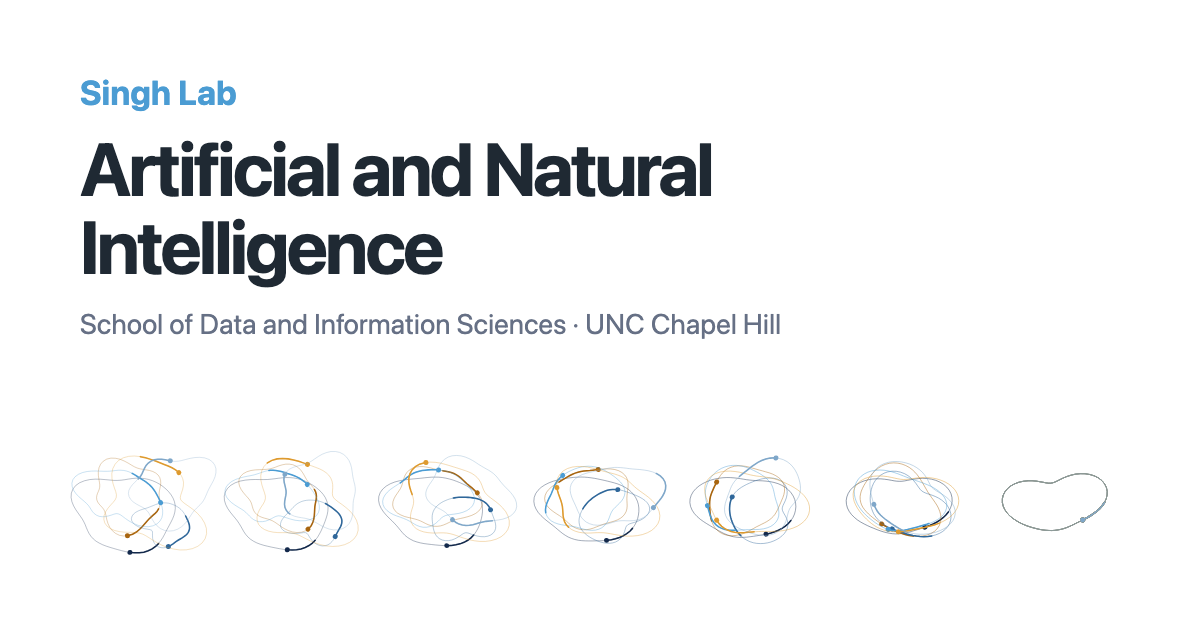
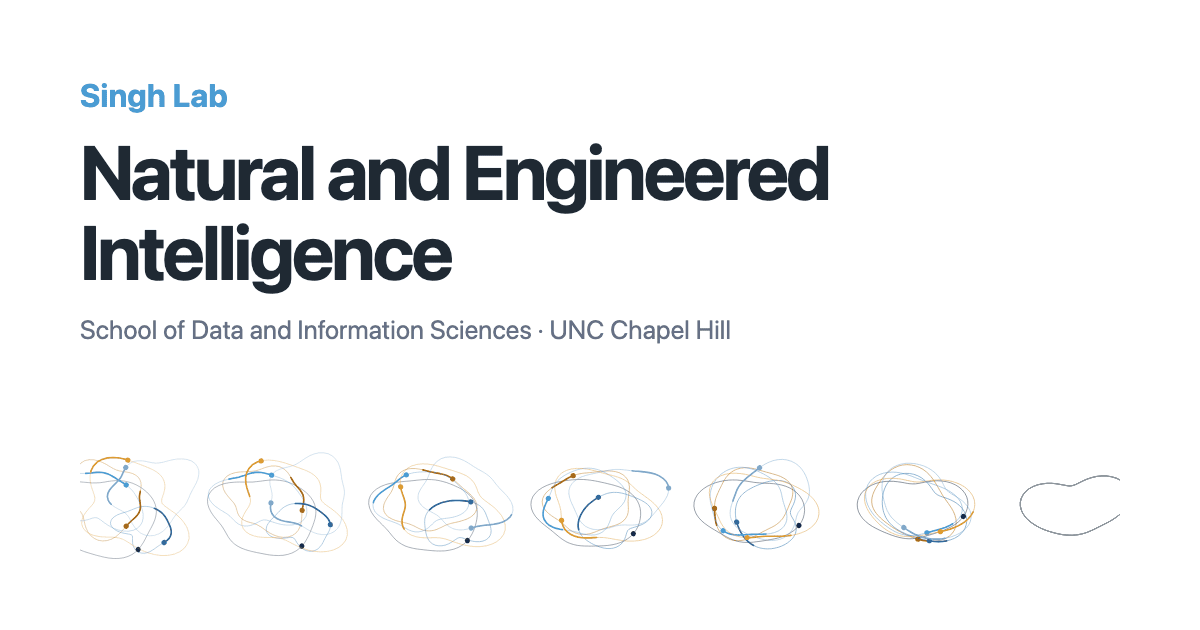
Self-host all Research media; add social previews, sitemap, structured data, 404
- Zebrafish collective GIF trimmed to its most active 8 s (5.7 MB -> 0.9 MB)
- Remaining images copied from the personal site into assets/research
- Research links to Google Scholar for the latest publications, plus
  back-to-top links after each theme
- Per-page Open Graph images; the About one now matches the site title
- sitemap.xml, robots.txt, and schema.org data for the lab and PI
- Styled 404 page

diff --git a/research.html b/research.html
@@ -20,13 +20,13 @@
   <meta property="og:title" content="Research · Singh Lab · UNC Chapel Hill">
   <meta property="og:description" content="Research in the Singh Lab: agent-based models and simulation, AI for science and medicine, and the dynamics of neural computation.">
   <meta property="og:url" content="https://satsinghlab.com/research.html">
-  <meta property="og:image" content="https://satsinghlab.com/assets/og-image.png">
+  <meta property="og:image" content="https://satsinghlab.com/assets/og-research.png">
   <meta property="og:image:width" content="1200">
   <meta property="og:image:height" content="630">
   <meta property="og:image:alt" content="Singh Lab: Natural and Engineered Intelligence, UNC Chapel Hill">
   <meta name="twitter:card" content="summary_large_image">
 
-  <link rel="stylesheet" href="style.css?v=3">
+  <link rel="stylesheet" href="style.css?v=4">
   <link rel="stylesheet" href="assets/banners.css?v=2">
 </head>
 
@@ -65,6 +65,12 @@
           </p>
         </div>
 
+        <p class="scholar-note">
+          The most up-to-date list of our publications is on
+          <a href="https://scholar.google.com/citations?user=S6wyhngAAAAJ&amp;hl=en&amp;view_op=list_works&amp;sortby=pubdate">Google Scholar</a>,
+          sorted newest first.
+        </p>
+
         <ul class="theme-nav">
           <li><a href="#agents">Agents and simulation</a></li>
           <li><a href="#computation">Neural computation</a></li>
@@ -95,9 +101,9 @@
                 electric fish. A 3D biomechanical body model is in progress.
               </p>
               <div class="media-strip">
-                <img src="https://satpreetsingh.github.io/files/wef3d_swim_forward_side_cropped.gif" alt="3D fish model swimming forward" loading="lazy">
-                <img src="https://satpreetsingh.github.io/files/wef3d_turns_learned_cropped.gif" alt="3D fish model performing learned turns" loading="lazy">
-                <img src="https://satpreetsingh.github.io/files/wef3d_nose_yaw_demo_sensors_cropped.gif" alt="3D fish model with electrosensors on its body" loading="lazy">
+                <img src="assets/research/efish-3d-swim.gif" alt="3D fish model swimming forward" loading="lazy">
+                <img src="assets/research/efish-3d-turns.gif" alt="3D fish model performing learned turns" loading="lazy">
+                <img src="assets/research/efish-3d-sensors.gif" alt="3D fish model with electrosensors on its body" loading="lazy">
               </div>
               <p class="project-venue">RLDM 2025, spotlight talk · NeurIPS 2025 workshop</p>
               <p class="project-links">
@@ -109,7 +115,7 @@
 
           <article class="project">
             <div class="project-media">
-              <img src="https://satpreetsingh.github.io/files/zf1_cropped.gif" alt="Simulated larval zebrafish agent hunting prey" loading="lazy">
+              <img src="assets/research/zebrafish-hunting.gif" alt="Simulated larval zebrafish agent hunting prey" loading="lazy">
             </div>
             <div class="project-body">
               <h3>Larval zebrafish hunting</h3>
@@ -127,7 +133,7 @@
 
           <article class="project">
             <div class="project-media">
-              <img src="https://satpreetsingh.github.io/files/zf4_cropped.gif" alt="Group of simulated zebrafish agents foraging, with their visual fields drawn" loading="lazy">
+              <img src="assets/research/zebrafish-collective.gif" alt="Group of simulated zebrafish agents foraging, with their visual fields drawn" loading="lazy">
             </div>
             <div class="project-body">
               <h3>Zebrafish collective behavior</h3>
@@ -178,6 +184,7 @@
           Also: <a href="https://openreview.net/pdf?id=5Q-sYQ9tD5j">Neuroprospecting with deep RL agents</a>,
           an essay on what AI and neuroscience can learn from each other · NeurIPS 2021 workshop
         </p>
+        <p class="to-top"><a href="#research">↑ Back to research themes</a></p>
       </div>
     </section>
 
@@ -264,6 +271,7 @@
           </article>
 
         </div>
+        <p class="to-top"><a href="#research">↑ Back to research themes</a></p>
       </div>
     </section>
 
@@ -357,7 +365,7 @@
 
           <article class="project">
             <div class="project-media">
-              <img src="https://satpreetsingh.github.io/files/umt.png" alt="Translators f and g map between synthetic electric signals from multi-agent RL and real fish recordings, constrained by cycle consistency and priors" loading="lazy">
+              <img src="assets/research/umt.png" alt="Translators f and g map between synthetic electric signals from multi-agent RL and real fish recordings, constrained by cycle consistency and priors" loading="lazy">
             </div>
             <div class="project-body">
               <h3>Translating electric-fish communication</h3>
@@ -375,7 +383,7 @@
 
           <article class="project">
             <div class="project-media">
-              <img src="https://satpreetsingh.github.io/files/pikachu.png" alt="Physics-based source separation: fish positions are optimized so simulated electrode readings match recordings, then signals are assigned to individual fish" loading="lazy">
+              <img src="assets/research/source-separation.png" alt="Physics-based source separation: fish positions are optimized so simulated electrode readings match recordings, then signals are assigned to individual fish" loading="lazy">
             </div>
             <div class="project-body">
               <h3>Who said that? Source separation for electric fish</h3>
@@ -409,6 +417,7 @@
           alt=""
           style="--focus:50%"
         >
+        <p class="to-top"><a href="#research">↑ Back to research themes</a></p>
       </div>
     </section>
 

diff --git a/404.html b/404.html
@@ -1,0 +1,90 @@
+<!DOCTYPE html>
+<html lang="en">
+<head>
+  <meta charset="UTF-8">
+  <meta name="viewport" content="width=device-width, initial-scale=1.0">
+  <meta name="robots" content="noindex">
+
+  <title>Page not found · Singh Lab</title>
+
+
+  <link rel="icon" href="/assets/favicon.svg" type="image/svg+xml">
+  <link rel="apple-touch-icon" href="/assets/apple-touch-icon.png">
+
+
+  <link rel="stylesheet" href="/style.css?v=4">
+  <link rel="stylesheet" href="/assets/banners.css?v=2">
+</head>
+
+<body>
+
+  <header>
+    <div class="container">
+      <nav>
+        <a class="site-name" href="/">Singh Lab</a>
+
+        <ul>
+          <li><a href="/">About</a></li>
+          <li><a href="/people.html">People</a></li>
+          <li><a href="/research.html">Research</a></li>
+          <li><a href="/contact.html">Contact</a></li>
+        </ul>
+      </nav>
+    </div>
+  </header>
+
+  <main>
+
+    <section id="not-found">
+      <div class="container">
+        <h2>Page not found</h2>
+
+        <div class="about-text">
+          <p>
+            The page you were looking for doesn't exist. The site was recently
+            reorganized, so an old link may have moved.
+          </p>
+          <p>
+            Try <a href="/">About</a>, <a href="/people.html">People</a>,
+            <a href="/research.html">Research</a>, or
+            <a href="/contact.html">Contact</a>.
+          </p>
+        </div>
+
+        <img
+          class="lab-divider section-divider"
+          src="/assets/gabor-divider.svg"
+          alt=""
+          style="--focus:50%"
+        >
+      </div>
+    </section>
+
+  </main>
+
+  <footer>
+    <div class="container">
+      © 2026 Singh Lab · University of North Carolina at Chapel Hill
+    </div>
+  </footer>
+
+  <!-- Default Statcounter code for www.satsinghlab.com
+  http://www.satsinghlab.com -->
+  <script type="text/javascript">
+  var sc_project=13357167;
+  var sc_invisible=1;
+  var sc_security="1e96510b";
+  </script>
+  <script type="text/javascript"
+  src="https://www.statcounter.com/counter/counter.js"
+  async></script>
+  <noscript><div class="statcounter"><a title="Web Analytics"
+  href="https://statcounter.com/" target="_blank"><img
+  class="statcounter"
+  src="https://c.statcounter.com/13357167/0/1e96510b/1/"
+  alt="Web Analytics"
+  referrerPolicy="no-referrer-when-downgrade"></a></div></noscript>
+  <!-- End of Statcounter Code -->
+
+</body>
+</html>

diff --git a/people.html b/people.html
@@ -20,13 +20,57 @@
   <meta property="og:title" content="People · Singh Lab · UNC Chapel Hill">
   <meta property="og:description" content="Members of the Singh Lab at UNC Chapel Hill, and how prospective PhD students can join.">
   <meta property="og:url" content="https://satsinghlab.com/people.html">
-  <meta property="og:image" content="https://satsinghlab.com/assets/og-image.png">
+  <meta property="og:image" content="https://satsinghlab.com/assets/og-people.png">
   <meta property="og:image:width" content="1200">
   <meta property="og:image:height" content="630">
   <meta property="og:image:alt" content="Singh Lab: Natural and Engineered Intelligence, UNC Chapel Hill">
   <meta name="twitter:card" content="summary_large_image">
 
-  <link rel="stylesheet" href="style.css?v=3">
+  <script type="application/ld+json">
+  {
+    "@context": "https://schema.org",
+    "@type": "Person",
+    "name": "Satpreet H. Singh",
+    "alternateName": "Sat Singh",
+    "jobTitle": "Assistant Professor",
+    "url": "https://satsinghlab.com/people.html",
+    "image": "https://satsinghlab.com/assets/sat-singh.jpg",
+    "worksFor": {
+      "@type": "CollegeOrUniversity",
+      "name": "University of North Carolina at Chapel Hill"
+    },
+    "affiliation": {
+      "@type": "ResearchOrganization",
+      "name": "Singh Lab",
+      "url": "https://satsinghlab.com/"
+    },
+    "alumniOf": [
+      {
+        "@type": "CollegeOrUniversity",
+        "name": "University of Washington"
+      },
+      {
+        "@type": "CollegeOrUniversity",
+        "name": "Oregon State University"
+      },
+      {
+        "@type": "CollegeOrUniversity",
+        "name": "University of Iowa"
+      }
+    ],
+    "sameAs": [
+      "https://satpreetsingh.github.io",
+      "https://scholar.google.com/citations?user=S6wyhngAAAAJ",
+      "https://orcid.org/0000-0003-1867-4401",
+      "https://github.com/satpreetsingh",
+      "https://www.linkedin.com/in/satpreetsingh",
+      "https://x.com/tweetsatpreet",
+      "https://bsky.app/profile/satpreetsingh.bsky.social"
+    ]
+  }
+  </script>
+
+  <link rel="stylesheet" href="style.css?v=4">
   <link rel="stylesheet" href="assets/banners.css?v=2">
 </head>
 

diff --git a/index.html b/index.html
@@ -38,7 +38,27 @@
     })();
   </script>
 
-  <link rel="stylesheet" href="style.css?v=3">
+  <script type="application/ld+json">
+  {
+    "@context": "https://schema.org",
+    "@type": "ResearchOrganization",
+    "name": "Singh Lab",
+    "url": "https://satsinghlab.com/",
+    "logo": "https://satsinghlab.com/assets/apple-touch-icon.png",
+    "description": "The Singh Lab at UNC Chapel Hill builds computational models of complex biological and artificial systems, spanning AI, reinforcement learning, computational neuroscience, and dynamical systems.",
+    "parentOrganization": {
+      "@type": "CollegeOrUniversity",
+      "name": "University of North Carolina at Chapel Hill"
+    },
+    "founder": {
+      "@type": "Person",
+      "name": "Satpreet H. Singh",
+      "url": "https://satsinghlab.com/people.html"
+    }
+  }
+  </script>
+
+  <link rel="stylesheet" href="style.css?v=4">
   <link rel="stylesheet" href="assets/banners.css?v=2">
 </head>
 

diff --git a/contact.html b/contact.html
@@ -20,13 +20,13 @@
   <meta property="og:title" content="Contact · Singh Lab · UNC Chapel Hill">
   <meta property="og:description" content="Get in touch with the Singh Lab at UNC Chapel Hill, as a prospective student or a collaborator.">
   <meta property="og:url" content="https://satsinghlab.com/contact.html">
-  <meta property="og:image" content="https://satsinghlab.com/assets/og-image.png">
+  <meta property="og:image" content="https://satsinghlab.com/assets/og-contact.png">
   <meta property="og:image:width" content="1200">
   <meta property="og:image:height" content="630">
   <meta property="og:image:alt" content="Singh Lab: Natural and Engineered Intelligence, UNC Chapel Hill">
   <meta name="twitter:card" content="summary_large_image">
 
-  <link rel="stylesheet" href="style.css?v=3">
+  <link rel="stylesheet" href="style.css?v=4">
   <link rel="stylesheet" href="assets/banners.css?v=2">
 </head>
 

diff --git a/style.css b/style.css
@@ -285,6 +285,24 @@ h2::after {
 }
 
 /* research page: jump links and project cards */
+.scholar-note {
+  max-width: 760px;
+  margin: 4px 0 0;
+  padding: 10px 14px;
+  border-left: 3px solid var(--accent);
+  background: var(--tint);
+  border-radius: 0 6px 6px 0;
+}
+
+.to-top {
+  margin: 14px 0 0;
+  font-size: 0.92rem;
+}
+
+.to-top a {
+  text-decoration: none;
+}
+
 .theme-nav {
   display: flex;
   flex-wrap: wrap;
